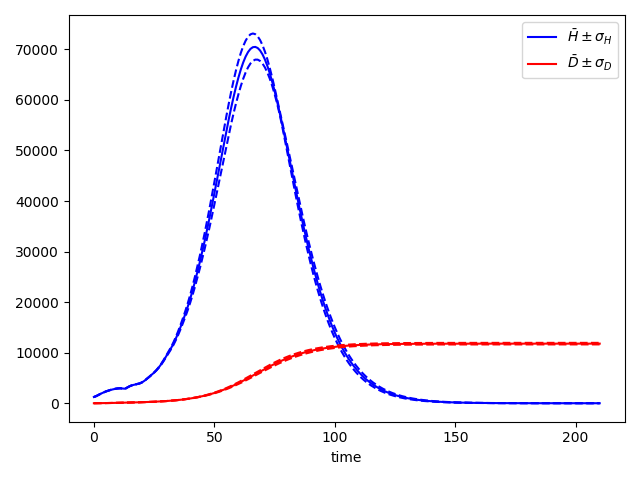
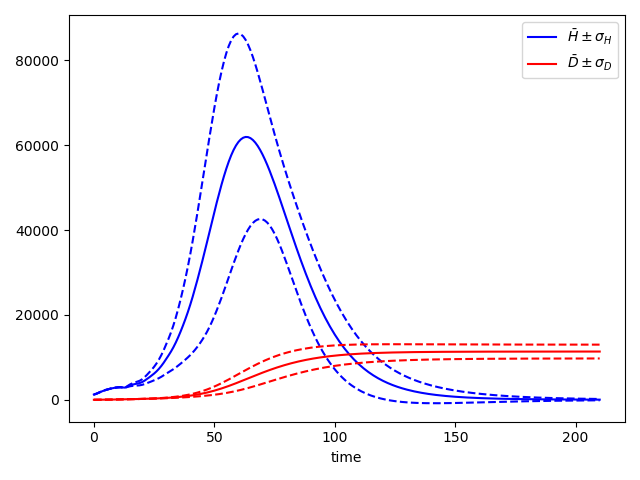
testing sparse grids on higher dimensions

diff --git a/examples/SIkR/sikr_job_submission.py b/examples/SIkR/sikr_job_submission.py
@@ -13,7 +13,7 @@ __license__ = "LGPL"
 HOME = os.path.abspath(os.path.dirname(__file__))
 
 # Set up a fresh campaign called "sc"
-my_campaign = uq.Campaign(name='sikr', work_dir='/tmp')
+my_campaign = uq.Campaign(name='sikr', work_dir = '/home/wouter/VECMA/Campaigns')
 
 # Define parameter space
 params = {
@@ -86,24 +86,34 @@ my_campaign.add_app(name="sc",
                     decoder=decoder,
                     collater=collater)    
 
+
 # Create the sampler
 vary = {
-    # "R0": cp.Uniform(1.9, 2.1),
-    "genWeibShape": cp.Normal(2.826027, 0.1),
-    "genWeibScale": cp.Normal(5.665302, 0.1)
+    "R0": cp.Normal(params['R0']['default'], 0.1*params['R0']['default']),
+    "genWeibShape": cp.Normal(params['genWeibShape']['default'], 0.1*params['genWeibShape']['default']),
+    "genWeibScale": cp.Normal(params['genWeibScale']['default'], 0.1*params['genWeibScale']['default']),
+    "incMeanLog": cp.Normal(params['incMeanLog']['default'], 0.1*params['incMeanLog']['default']),
+    "incSdLog": cp.Normal(params['incSdLog']['default'], 0.1*params['incSdLog']['default'])    
 }
 
-my_sampler = uq.sampling.SCSampler(vary=vary, polynomial_order=2)
+my_sampler = uq.sampling.SCSampler(vary=vary, polynomial_order=5, 
+                                   sparse=True, quadrature_rule="G",
+                                   growth=True)
+
+print('*****************************************')
+print('Sampling the code', my_sampler._number_of_samples, 'times.')
+print('*****************************************')
+
 # Associate the sampler with the campaign
 my_campaign.set_sampler(my_sampler)
     
-# Will draw all (of the finite set of samples)
-my_campaign.draw_samples()
+# # Will draw all (of the finite set of samples)
+# my_campaign.draw_samples()
 
-my_campaign.populate_runs_dir()
+# my_campaign.populate_runs_dir()
 
-#Run execution using Fabsim 
-fab.run_uq_ensemble(my_campaign.campaign_dir, 'sikr', machine='localhost')
+# #Run execution using Fabsim 
+# fab.run_uq_ensemble(my_campaign.campaign_dir, 'sikr', machine='localhost')
 
-#Save the Campaign
-my_campaign.save_state("campaign_state.json")
+# #Save the Campaign
+# my_campaign.save_state("campaign_state.json")

diff --git a/examples/VVP_test/test_sobol.py b/examples/VVP_test/test_sobol.py
@@ -45,10 +45,10 @@ def exact_sobols():
     return V_i/V
 
 # number of unknown variables
-d = 2
+d = 3
 
 # parameters required by test function
-a = [0.0, 1.0]#, 2.0, 4.0, 8.0]
+a = [0.0, 1.0, 2.0]#, 4.0, 8.0]
 
 # author: Wouter Edeling
 __license__ = "LGPL"
@@ -68,6 +68,26 @@ def run_campaign(poly_order, work_dir = '/tmp'):
             "max": 1.0,
             "default": 0.5},
         "x2": {
+            "type": "float",
+            "min": 0.0,
+            "max": 1.0,
+            "default": 0.5},
+        "x3": {
+            "type": "float",
+            "min": 0.0,
+            "max": 1.0,
+            "default": 0.5},
+        "x4": {
+            "type": "float",
+            "min": 0.0,
+            "max": 1.0,
+            "default": 0.5},
+        "x5": {
+            "type": "float",
+            "min": 0.0,
+            "max": 1.0,
+            "default": 0.5},
+        "x6": {
             "type": "float",
             "min": 0.0,
             "max": 1.0,
@@ -99,7 +119,10 @@ def run_campaign(poly_order, work_dir = '/tmp'):
     # Create the sampler
     vary = {
         "x1": cp.Uniform(0.0, 1.0),
-        "x2": cp.Uniform(0.0, 1.0)}
+        "x2": cp.Uniform(0.0, 1.0),
+        "x3": cp.Uniform(0.0, 1.0),
+        "x4": cp.Uniform(0.0, 1.0),
+        "x5": cp.Uniform(0.0, 1.0)}
     
     """
     SPARSE GRID PARAMETERS
@@ -111,8 +134,8 @@ def run_campaign(poly_order, work_dir = '/tmp'):
     """
     
     my_sampler = uq.sampling.SCSampler(vary=vary, polynomial_order=poly_order,
-                                       quadrature_rule="G", sparse=False,
-                                       growth=False)
+                                       quadrature_rule="G", sparse=True,
+                                       growth=True)
     
     # Associate the sampler with the campaign
     my_campaign.set_sampler(my_sampler)
@@ -162,7 +185,7 @@ if __name__ == '__main__':
     ref_sobols = exact_sobols()
 
     #perform campaigns, each time refining the polynomial order
-    poly_orders = range(2, 10)
+    poly_orders = range(2, 3)
     for p in poly_orders:
         results, ID = run_campaign(p)
         items.append(ID)

diff --git a/examples/advection_diffusion/fab_ade.py b/examples/advection_diffusion/fab_ade.py
@@ -56,7 +56,7 @@ my_campaign.add_app(name="sc",
 # Create the sampler
 vary = {
     "Pe": cp.Uniform(100.0, 200.0),
-    "f": cp.Uniform(0.95, 1.05)
+    "f": cp.Uniform(0.9, 1.1)
 }
 
 """
@@ -67,9 +67,15 @@ SPARSE GRID PARAMETERS
   of 1D collocation points per level. Used to make e.g. clenshaw-curtis
   quadrature nested.
 """
-my_sampler = uq.sampling.SCSampler(vary=vary, polynomial_order=2,
+my_sampler = uq.sampling.SCSampler(vary=vary, polynomial_order=3,
                                    quadrature_rule="G", 
-                                   sparse=False, growth=False)
+                                   sparse=True, growth=True)
+
+xi_d  = my_sampler.xi_d
+
+fig = plt.figure()
+ax = fig.add_subplot(111)
+ax.plot(xi_d[:, 0], xi_d[:,1], 'ro')
 
 # Associate the sampler with the campaign
 my_campaign.set_sampler(my_sampler)
@@ -114,7 +120,6 @@ ax.plot(x, mu - std, '--r')
 #####################################
 # Plot the random surrogate samples #
 #####################################
-
 
 ax = fig.add_subplot(122, xlabel='location x', ylabel='velocity u',
                      title='Surrogate samples')

diff --git a/examples/SIkR/sikr_post_processing.py b/examples/SIkR/sikr_post_processing.py
@@ -17,7 +17,7 @@ __license__ = "LGPL"
 #home dir of this file    
 HOME = os.path.abspath(os.path.dirname(__file__))
 # work_dir = home + "/VECMA/Campaigns/"
-work_dir = '/tmp'
+work_dir = '/home/wouter/VECMA/Campaigns'
 
 #Reload the campaign
 my_campaign = uq.Campaign(state_file = 'campaign_state.json', work_dir = work_dir)
@@ -97,7 +97,7 @@ ax = fig.add_subplot(111, xlabel='time')
     
 #get the input distributions
 theta = my_sampler.vary.get_values()
-xi = np.zeros([n_mc, 2])
+xi = np.zeros([n_mc, 5])
 idx = 0
 
 #draw random sampler from the input distributions

diff --git a/examples/VVP_test/sc/sobol_model.py b/examples/VVP_test/sc/sobol_model.py
@@ -14,10 +14,10 @@ def sobol_g_func(theta):
 
 
 # parameters required by test function
-a = [0.0, 1.0]#, 2.0, 4.0, 8.0]
+a = [0.0, 1.0, 2.0]#, 4.0, 8.0]
 
 # stocastic dimension of the problem
-d = 2
+d = 3
 
 # the json input file containing the values of the parameters, and the
 # output file
